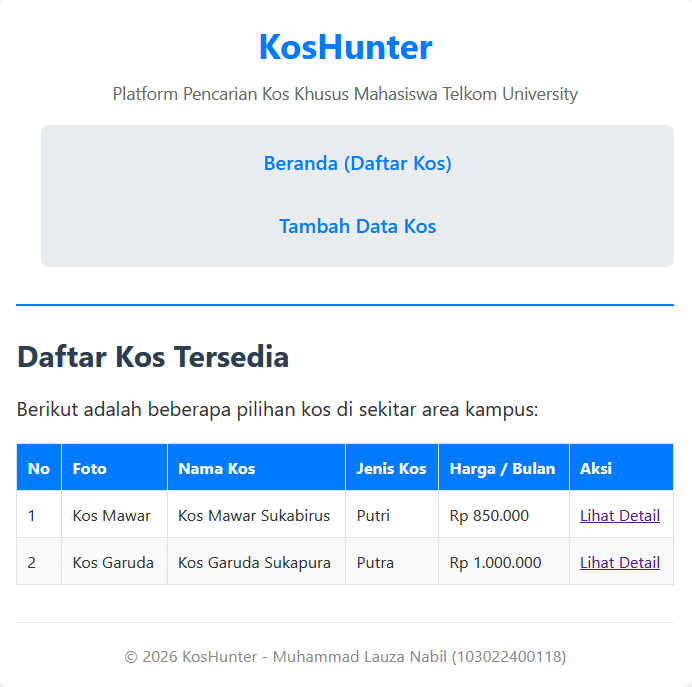
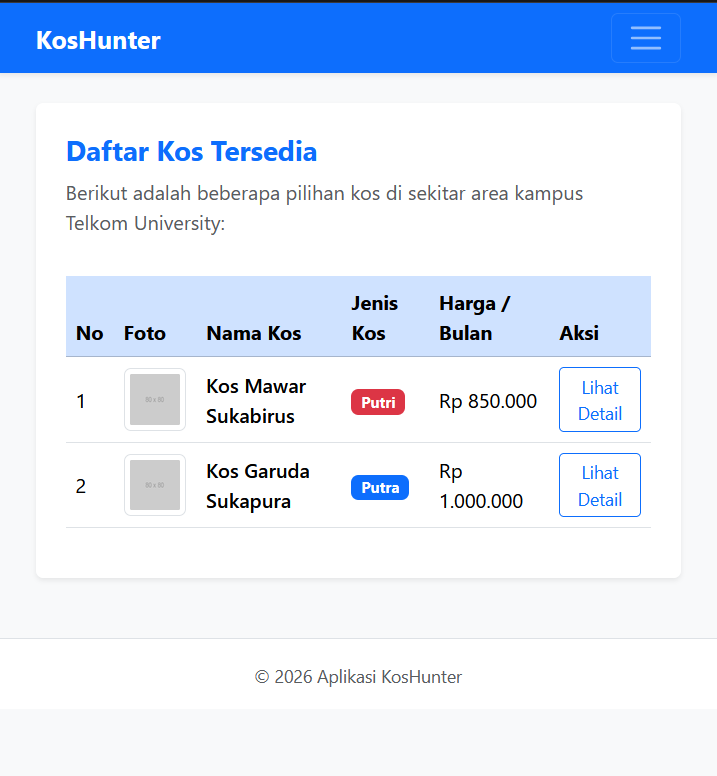
Add files via upload

diff --git a/tambah-kos.html b/tambah-kos.html
@@ -4,66 +4,82 @@
     <meta charset="UTF-8">
     <meta name="viewport" content="width=device-width, initial-scale=1.0">
     <title>Tambah Kos Baru - KosHunter</title>
-    <link rel="stylesheet" href="style.css">
+    <!-- Bootstrap 5 CSS CDN -->
+    <link href="https://cdn.jsdelivr.net/npm/bootstrap@5.3.2/dist/css/bootstrap.min.css" rel="stylesheet">
 </head>
-<body>
-    <div class="container">
-        <header>
-            <h1>KosHunter</h1>
-            <nav>
-                <ul>
-                    <li><a href="index.html">Beranda (Daftar Kos)</a></li>
-                    <li><a href="tambah-kos.html">Tambah Data Kos</a></li>
+<body class="bg-light">
+
+    <!-- Navigasi Responsif -->
+    <nav class="navbar navbar-expand-lg navbar-dark bg-primary shadow-sm mb-4">
+        <div class="container">
+            <a class="navbar-brand fw-bold" href="index.html">KosHunter</a>
+            <button class="navbar-toggler" type="button" data-bs-toggle="collapse" data-bs-target="#navbarNav">
+                <span class="navbar-toggler-icon"></span>
+            </button>
+            <div class="collapse navbar-collapse" id="navbarNav">
+                <ul class="navbar-nav ms-auto">
+                    <li class="nav-item"><a class="nav-link" href="index.html">Beranda (Daftar Kos)</a></li>
+                    <li class="nav-item"><a class="nav-link active" href="tambah-kos.html">Tambah Data Kos</a></li>
                 </ul>
-            </nav>
-        </header>
+            </div>
+        </div>
+    </nav>
 
-        <main>
-            <h2>Formulir Tambah Data Kos Baru</h2>
-            <p>Silakan isi informasi di bawah ini untuk mengunggah data kos.</p>
+    <!-- Form Container -->
+    <div class="container mb-5">
+        <div class="row justify-content-center">
+            <div class="col-md-8">
+                <div class="card shadow-sm border-0 p-4">
+                    <h2 class="h4 text-primary fw-bold mb-2">Formulir Tambah Data Kos Baru</h2>
+                    <p class="text-muted mb-4">Silakan isi informasi di bawah ini untuk mengunggah data kos.</p>
 
-            <form action="#" method="POST">
-                <div class="form-group">
-                    <label for="nama_kos">Nama Kos:</label>
-                    <input type="text" id="nama_kos" name="nama_kos" placeholder="Contoh: Kos Mawar" required>
+                    <form action="#" method="POST">
+                        <div class="mb-3">
+                            <label for="nama_kos" class="form-label font-weight-bold">Nama Kos:</label>
+                            <input type="text" class="form-control" id="nama_kos" name="nama_kos" placeholder="Contoh: Kos Mawar" required>
+                        </div>
+
+                        <div class="mb-3">
+                            <label for="kategori" class="form-label">Kategori:</label>
+                            <select class="form-select" id="kategori" name="kategori">
+                                <option value="putri">Khusus Putri</option>
+                                <option value="putra">Khusus Putra</option>
+                                <option value="campur">Campur</option>
+                            </select>
+                        </div>
+
+                        <div class="mb-3">
+                            <label for="harga" class="form-label">Harga / Bulan (Rp):</label>
+                            <input type="number" class="form-control" id="harga" name="harga" placeholder="850000" required>
+                        </div>
+
+                        <div class="mb-3">
+                            <label for="tanggal" class="form-label">Tanggal Tersedia:</label>
+                            <input type="date" class="form-control" id="tanggal" name="tanggal">
+                        </div>
+
+                        <div class="mb-3">
+                            <label for="alamat" class="form-label">Alamat Lengkap:</label>
+                            <textarea class="form-control" id="alamat" name="alamat" rows="3" placeholder="Masukkan alamat lengkap..."></textarea>
+                        </div>
+
+                        <div class="mb-3">
+                            <label for="deskripsi" class="form-label">Deskripsi & Fasilitas Tambahan:</label>
+                            <textarea class="form-control" id="deskripsi" name="deskripsi" rows="4" placeholder="Fasilitas, peraturan, dll..."></textarea>
+                        </div>
+
+                        <button type="submit" class="btn btn-success px-4">Simpan Data Kos</button>
+                    </form>
                 </div>
-
-                <div class="form-group">
-                    <label for="kategori">Kategori:</label>
-                    <select id="kategori" name="kategori">
-                        <option value="putri">Khusus Putri</option>
-                        <option value="putra">Khusus Putra</option>
-                        <option value="campur">Campur</option>
-                    </select>
-                </div>
-
-                <div class="form-group">
-                    <label for="harga">Harga / Bulan (Rp):</label>
-                    <input type="number" id="harga" name="harga" placeholder="850000" required>
-                </div>
-
-                <div class="form-group">
-                    <label for="tanggal">Tanggal Tersedia:</label>
-                    <input type="date" id="tanggal" name="tanggal">
-                </div>
-
-                <div class="form-group">
-                    <label for="alamat">Alamat Lengkap:</label>
-                    <textarea id="alamat" name="alamat" rows="3" placeholder="Masukkan alamat lengkap..."></textarea>
-                </div>
-
-                <div class="form-group">
-                    <label for="deskripsi">Deskripsi & Fasilitas Tambahan:</label>
-                    <textarea id="deskripsi" name="deskripsi" rows="4" placeholder="Fasilitas, peraturan, dll..."></textarea>
-                </div>
-
-                <button type="submit">Simpan Data Kos</button>
-            </form>
-        </main>
-
-        <footer>
-            <p>&copy; 2026 KosHunter - Muhammad Lauza Nabil (103022400118)</p>
-        </footer>
+            </div>
+        </div>
     </div>
+
+    <footer class="text-center py-3 text-muted border-top bg-white">
+        <small>&copy; 2026 Aplikasi KosHunter </small>
+    </footer>
+
+    <!-- Bootstrap JS Bundle -->
+    <script src="https://cdn.jsdelivr.net/npm/bootstrap@5.3.2/dist/js/bootstrap.bundle.min.js"></script>
 </body>
 </html>

diff --git a/index.html b/index.html
@@ -4,61 +4,77 @@
     <meta charset="UTF-8">
     <meta name="viewport" content="width=device-width, initial-scale=1.0">
     <title>KosHunter - Katalog Kos Mahasiswa</title>
-    <link rel="stylesheet" href="style.css">
+    <!-- Bootstrap 5 CSS CDN -->
+    <link href="https://cdn.jsdelivr.net/npm/bootstrap@5.3.2/dist/css/bootstrap.min.css" rel="stylesheet">
 </head>
-<body>
-    <div class="container">
-        <header>
-            <h1>KosHunter</h1>
-            <p>Platform Pencarian Kos Khusus Mahasiswa Telkom University</p>
-            <nav>
-                <ul>
-                    <li><a href="index.html">Beranda (Daftar Kos)</a></li>
-                    <li><a href="tambah-kos.html">Tambah Data Kos</a></li>
+<body class="bg-light">
+
+    <!-- Navigasi Responsif -->
+    <nav class="navbar navbar-expand-lg navbar-dark bg-primary shadow-sm mb-4">
+        <div class="container">
+            <a class="navbar-brand fw-bold" href="index.html">KosHunter</a>
+            <button class="navbar-toggler" type="button" data-bs-toggle="collapse" data-bs-target="#navbarNav">
+                <span class="navbar-toggler-icon"></span>
+            </button>
+            <div class="collapse navbar-collapse" id="navbarNav">
+                <ul class="navbar-nav ms-auto">
+                    <li class="nav-item"><a class="nav-link active" href="index.html">Beranda (Daftar Kos)</a></li>
+                    <li class="nav-item"><a class="nav-link" href="tambah-kos.html">Tambah Data Kos</a></li>
                 </ul>
-            </nav>
-        </header>
+            </div>
+        </div>
+    </nav>
 
-        <main>
-            <section>
-                <h2>Daftar Kos Tersedia</h2>
-                <p>Berikut adalah beberapa pilihan kos di sekitar area kampus:</p>
-                <table>
-                    <thead>
-                        <tr>
-                            <th>No</th>
-                            <th>Foto</th>
-                            <th>Nama Kos</th>
-                            <th>Jenis Kos</th>
-                            <th>Harga / Bulan</th>
-                            <th>Aksi</th>
-                        </tr>
-                    </thead>
-                    <tbody>
-                        <tr>
-                            <td>1</td>
-                            <td><img src="https://via.placeholder.com/80" alt="Kos Mawar" width="80"></td>
-                            <td>Kos Mawar Sukabirus</td>
-                            <td>Putri</td>
-                            <td>Rp 850.000</td>
-                            <td><a href="detail.html">Lihat Detail</a></td>
-                        </tr>
-                        <tr>
-                            <td>2</td>
-                            <td><img src="https://via.placeholder.com/80" alt="Kos Garuda" width="80"></td>
-                            <td>Kos Garuda Sukapura</td>
-                            <td>Putra</td>
-                            <td>Rp 1.000.000</td>
-                            <td><a href="detail.html">Lihat Detail</a></td>
-                        </tr>
-                    </tbody>
-                </table>
-            </section>
-        </main>
-
-        <footer>
-            <p>&copy; 2026 KosHunter - Muhammad Lauza Nabil (103022400118)</p>
-        </footer>
+    <!-- Content / Grid Container -->
+    <div class="container mb-5">
+        <div class="row">
+            <div class="col-12">
+                <div class="card shadow-sm border-0 p-4">
+                    <h2 class="h4 text-primary fw-bold mb-2">Daftar Kos Tersedia</h2>
+                    <p class="text-muted">Berikut adalah beberapa pilihan kos di sekitar area kampus Telkom University:</p>
+                    
+                    <div class="table-responsive mt-3">
+                        <table class="table table-hover align-middle">
+                            <thead class="table-primary">
+                                <tr>
+                                    <th>No</th>
+                                    <th>Foto</th>
+                                    <th>Nama Kos</th>
+                                    <th>Jenis Kos</th>
+                                    <th>Harga / Bulan</th>
+                                    <th>Aksi</th>
+                                </tr>
+                            </thead>
+                            <tbody>
+                                <tr>
+                                    <td>1</td>
+                                    <td><img src="https://via.placeholder.com/80" alt="Kos Mawar" class="img-thumbnail" width="80"></td>
+                                    <td class="fw-semibold">Kos Mawar Sukabirus</td>
+                                    <td><span class="badge bg-danger">Putri</span></td>
+                                    <td>Rp 850.000</td>
+                                    <td><a href="detail.html" class="btn btn-sm btn-outline-primary">Lihat Detail</a></td>
+                                </tr>
+                                <tr>
+                                    <td>2</td>
+                                    <td><img src="https://via.placeholder.com/80" alt="Kos Garuda" class="img-thumbnail" width="80"></td>
+                                    <td class="fw-semibold">Kos Garuda Sukapura</td>
+                                    <td><span class="badge bg-primary">Putra</span></td>
+                                    <td>Rp 1.000.000</td>
+                                    <td><a href="detail.html" class="btn btn-sm btn-outline-primary">Lihat Detail</a></td>
+                                </tr>
+                            </tbody>
+                        </table>
+                    </div>
+                </div>
+            </div>
+        </div>
     </div>
+
+    <footer class="text-center py-3 text-muted border-top mt-auto bg-white">
+        <small>&copy; 2026 Aplikasi KosHunter </small>
+    </footer>
+
+    <!-- Bootstrap JS Bundle -->
+    <script src="https://cdn.jsdelivr.net/npm/bootstrap@5.3.2/dist/js/bootstrap.bundle.min.js"></script>
 </body>
 </html>

diff --git a/detail.html b/detail.html
@@ -4,52 +4,74 @@
     <meta charset="UTF-8">
     <meta name="viewport" content="width=device-width, initial-scale=1.0">
     <title>Detail Kos - KosHunter</title>
-    <link rel="stylesheet" href="style.css">
+    <!-- Bootstrap 5 CSS CDN -->
+    <link href="https://cdn.jsdelivr.net/npm/bootstrap@5.3.2/dist/css/bootstrap.min.css" rel="stylesheet">
 </head>
-<body>
-    <div class="container">
-        <header>
-            <h1>KosHunter</h1>
-            <nav>
-                <ul>
-                    <li><a href="index.html">Kembali ke Daftar Kos</a></li>
-                </ul>
-            </nav>
-        </header>
+<body class="bg-light">
 
-        <main>
-            <h2>Detail Kos: Kos Mawar Sukabirus</h2>
+    <!-- Navigasi Responsif -->
+    <nav class="navbar navbar-expand-lg navbar-dark bg-primary shadow-sm mb-4">
+        <div class="container">
+            <a class="navbar-brand fw-bold" href="index.html">KosHunter</a>
+            <button class="navbar-toggler" type="button" data-bs-toggle="collapse" data-bs-target="#navbarNav">
+                <span class="navbar-toggler-icon"></span>
+            </button>
+            <div class="collapse navbar-collapse" id="navbarNav">
+                <ul class="navbar-nav ms-auto">
+                    <li class="nav-item"><a class="nav-link" href="index.html">Kembali ke Daftar Kos</a></li>
+                </ul>
+            </div>
+        </div>
+    </nav>
+
+    <!-- Main Content -->
+    <div class="container mb-5">
+        <div class="card shadow-sm border-0 p-4">
+            <h2 class="h3 text-primary fw-bold mb-4">Detail Kos: Kos Mawar Sukabirus</h2>
             
-            <section>
-                <h3>Informasi Umum</h3>
-                <p><strong>Lokasi:</strong> Jl. Sukabirus No. 12, Bojongsoang</p>
-                <p><strong>Harga:</strong> Rp 850.000 / bulan</p>
-                <p><strong>Kategori:</strong> Khusus Putri</p>
-                <p><strong>Status Ketersediaan:</strong> Tersisa 2 Kamar</p>
-            </section>
+            <div class="row g-4">
+                <div class="col-md-6">
+                    <div class="p-3 bg-light rounded border">
+                        <h4 class="h5 text-secondary border-bottom pb-2">Informasi Umum</h4>
+                        <p class="mb-1"><strong>Lokasi:</strong> Jl. Sukabirus No. 12, Bojongsoang</p>
+                        <p class="mb-1"><strong>Harga:</strong> Rp 850.000 / bulan</p>
+                        <p class="mb-1"><strong>Kategori:</strong> <span class="badge bg-danger">Khusus Putri</span></p>
+                        <p class="mb-0"><strong>Status Ketersediaan:</strong> <span class="badge bg-success">Tersisa 2 Kamar</span></p>
+                    </div>
+                </div>
 
-            <section>
-                <h3>Fasilitas Kos</h3>
-                <ul>
-                    <li>Kamar Mandi Dalam</li>
-                    <li>Kasur & Lemari Pakaian</li>
-                    <li>Wi-Fi Gratis 24 Jam</li>
-                    <li>Dapur Bersama & Kulkas</li>
-                    <li>Parkir Motor Luas</li>
-                </ul>
-            </section>
+                <div class="col-md-6">
+                    <div class="p-3 bg-light rounded border">
+                        <h4 class="h5 text-secondary border-bottom pb-2">Fasilitas Kos</h4>
+                        <ul class="mb-0">
+                            <li>Kamar Mandi Dalam</li>
+                            <li>Kasur & Lemari Pakaian</li>
+                            <li>Wi-Fi Gratis 24 Jam</li>
+                            <li>Dapur Bersama & Kulkas</li>
+                            <li>Parkir Motor Luas</li>
+                        </ul>
+                    </div>
+                </div>
 
-            <section>
-                <h3>Deskripsi Singkat</h3>
-                <p>Kos Mawar Sukabirus merupakan hunian nyaman khusus putri yang berlokasi dekat dengan gerbang belakang kampus Telkom University. Lingkungan tenang, aman, dan dekat dengan area kuliner serta minimarket.</p>
-            </section>
+                <div class="col-12">
+                    <div class="p-3 bg-light rounded border">
+                        <h4 class="h5 text-secondary border-bottom pb-2">Deskripsi Singkat</h4>
+                        <p class="mb-0">Kos Mawar Sukabirus merupakan hunian nyaman khusus putri yang berlokasi dekat dengan gerbang belakang kampus Telkom University. Lingkungan tenang, aman, dan dekat dengan area kuliner serta minimarket.</p>
+                    </div>
+                </div>
+            </div>
 
-            <p style="margin-top: 15px;"><a href="index.html">&laquo; Kembali ke katalog utama</a></p>
-        </main>
-
-        <footer>
-            <p>&copy; 2026 KosHunter - Muhammad Lauza Nabil (103022400118)</p>
-        </footer>
+            <div class="mt-4">
+                <a href="index.html" class="btn btn-secondary">&laquo; Kembali ke katalog utama</a>
+            </div>
+        </div>
     </div>
+
+    <footer class="text-center py-3 text-muted border-top bg-white">
+        <small>&copy; 2026 Aplikasi KosHunter </small>
+    </footer>
+
+    <!-- Bootstrap JS Bundle -->
+    <script src="https://cdn.jsdelivr.net/npm/bootstrap@5.3.2/dist/js/bootstrap.bundle.min.js"></script>
 </body>
 </html>
